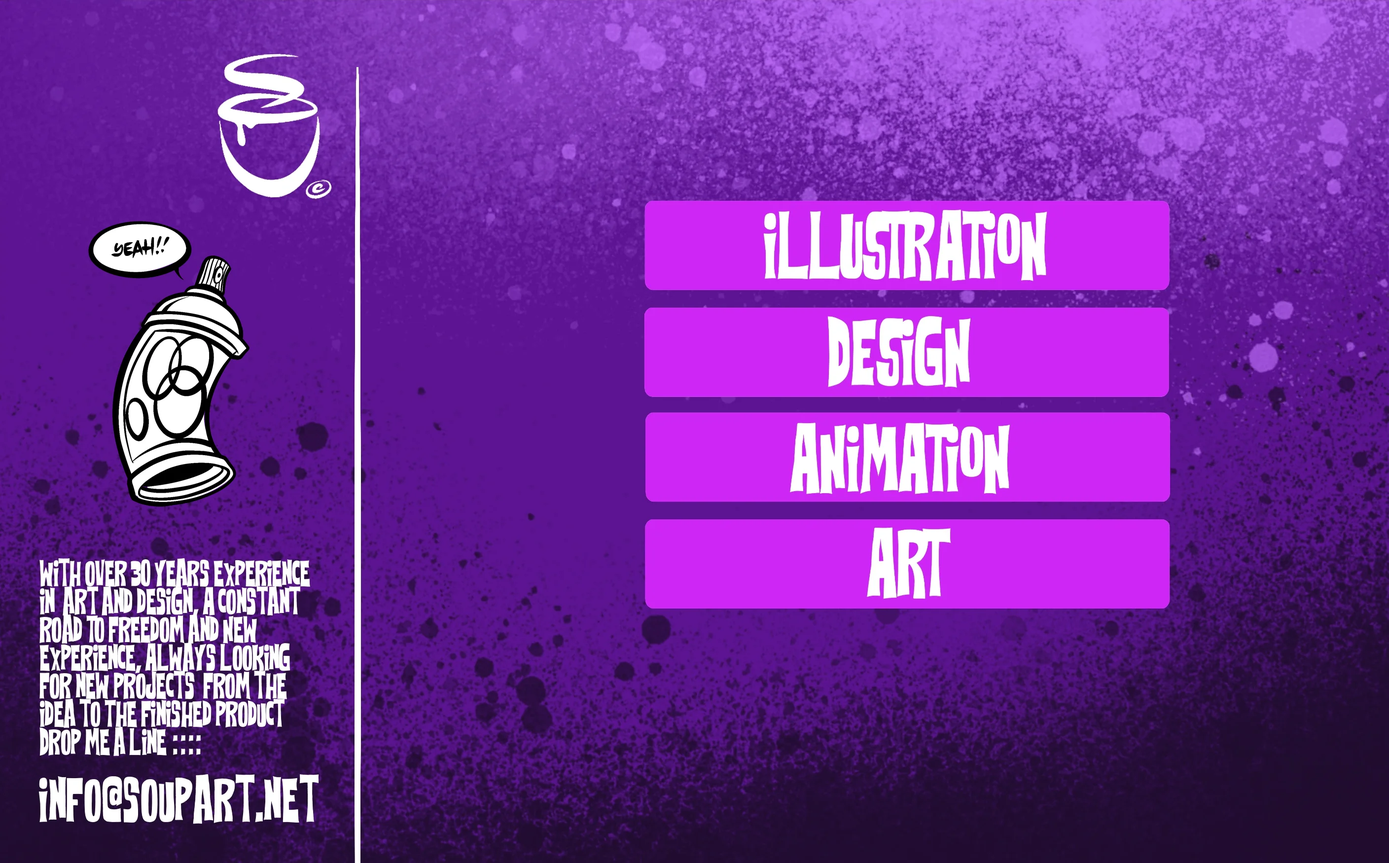
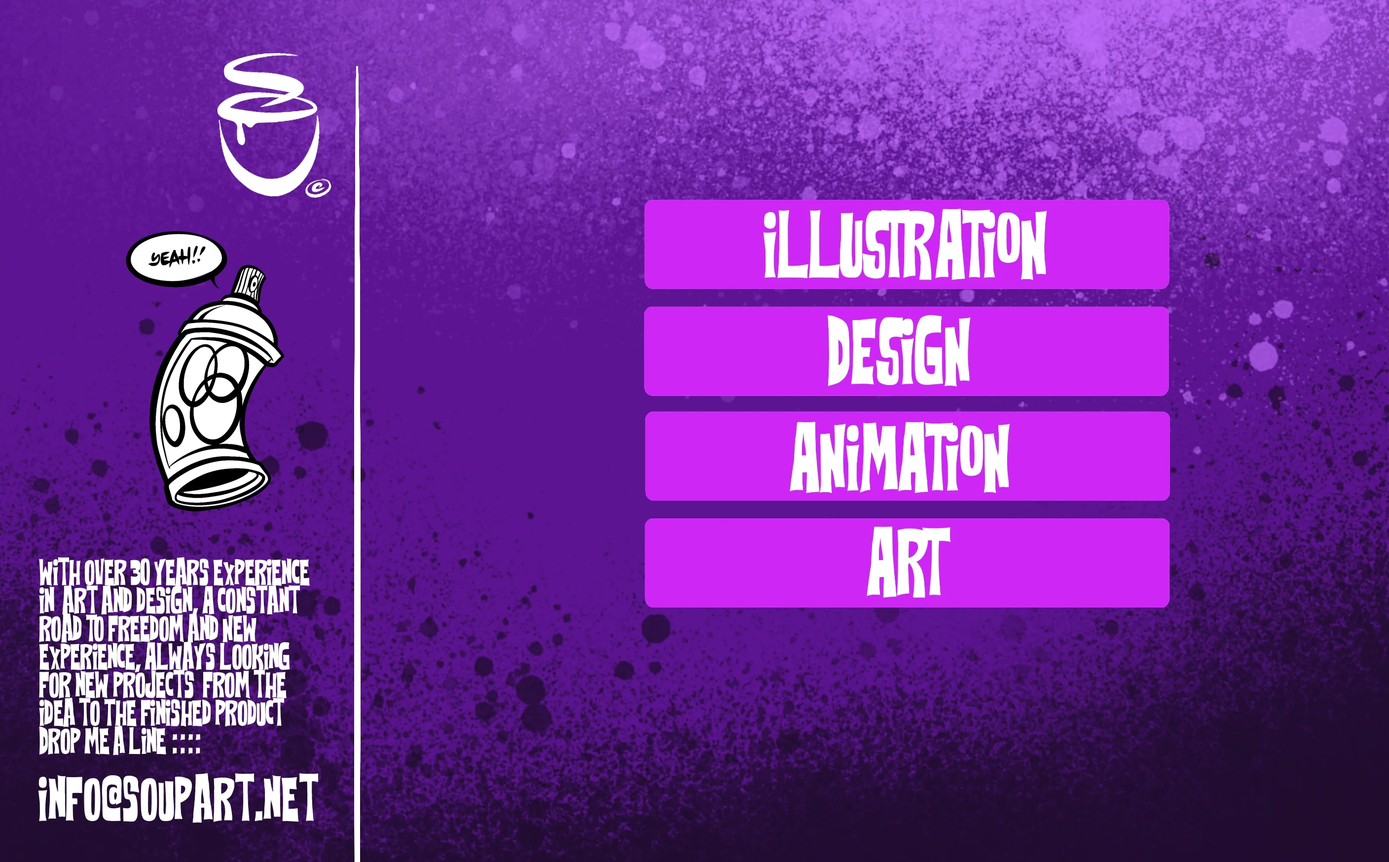
Pixel perfect can.

diff --git a/script/orientation/mousedown.js b/script/orientation/mousedown.js
@@ -19,8 +19,8 @@ function showSpray() {
     const rect = img.getBoundingClientRect();
     const containerRect = container.getBoundingClientRect();
 
-    const topOffset = rect.top - containerRect.top + rect.height * 0.15;
-    const leftOffset = rect.left - containerRect.left + rect.width * 0.05;
+    const topOffset = rect.top - containerRect.top + rect.height * 0.16;
+    const leftOffset = rect.left - containerRect.left + rect.width * 0.07;
 
     sprayImg.style.top = `${topOffset}px`;
     sprayImg.style.left = `${leftOffset}px`;
